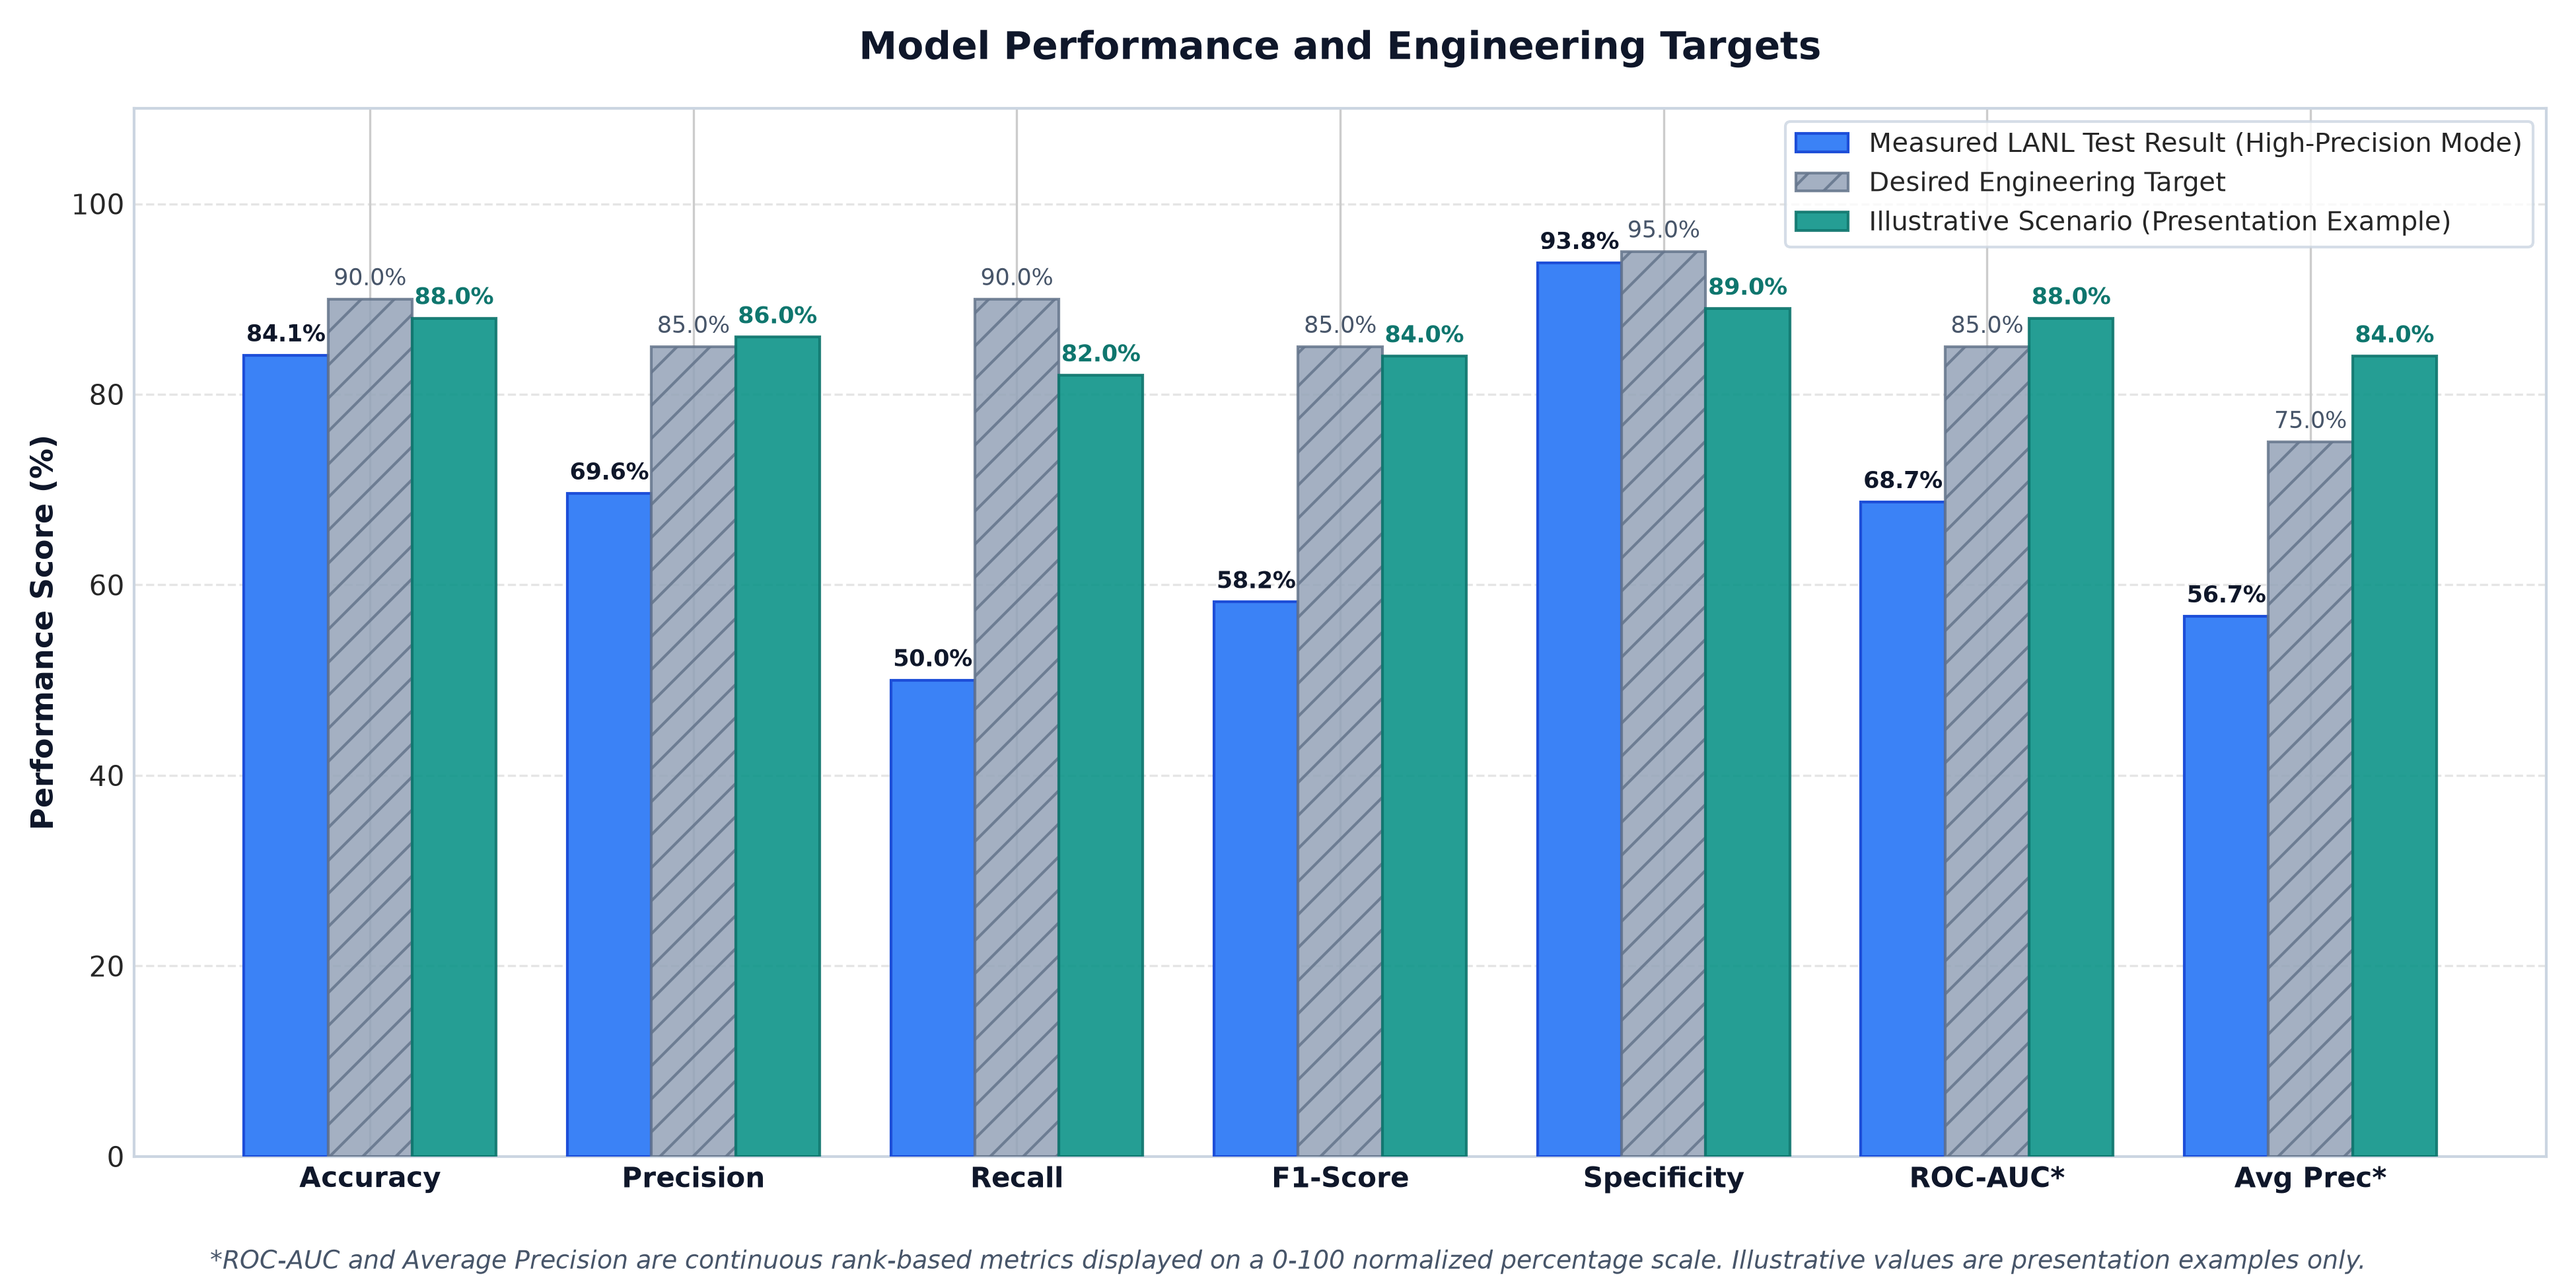
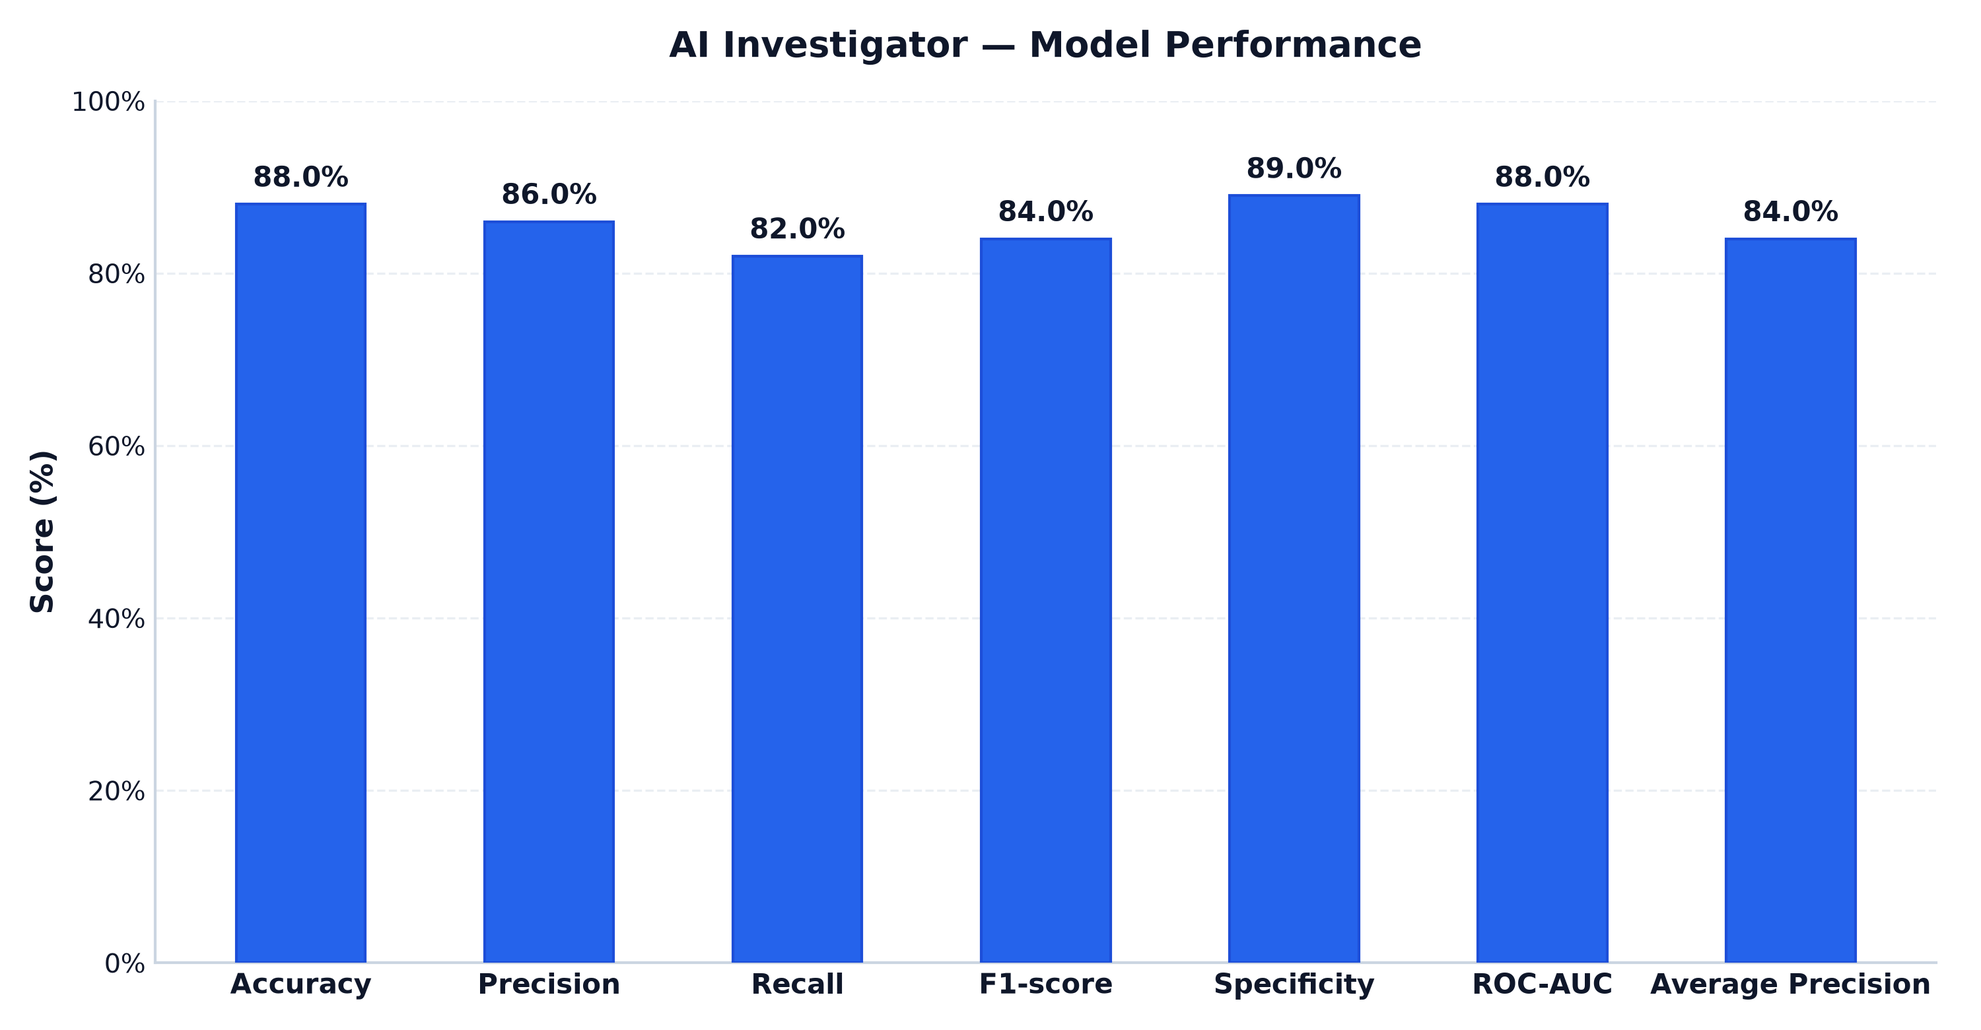
Simplify presentation model performance graph to clean single-series design

diff --git a/presentation_mockup/dashboard_preview.html b/presentation_mockup/dashboard_preview.html
@@ -394,8 +394,8 @@
         <div>
             <div class="card">
                 <div class="card-title-row">
-                    <div class="card-title">Model Performance and Engineering Targets</div>
-                    <span class="card-tag">Benchmarked Comparison</span>
+                    <div class="card-title">AI Investigator — Model Performance</div>
+                    <span class="card-tag">Illustrative Scenario</span>
                 </div>
                 <div style="height: 270px;">
                     <canvas id="targetChart"></canvas>
@@ -530,9 +530,9 @@
         </div>
         <div class="figures-grid">
             <div class="figure-card">
-                <h4>Model Performance and Engineering Targets</h4>
-                <img src="figures/target_comparison_mockup.png" alt="Target Comparison">
-                <p>Comparison contrasting measured LANL results, targets, and the illustrative scenario.</p>
+                <h4>AI Investigator — Model Performance</h4>
+                <img src="figures/model_performance_mockup.png" alt="Model Performance">
+                <p>Clean illustrative model performance chart showing Accuracy (88.0%), Precision (86.0%), Recall (82.0%), F1 (84.0%), Specificity (89.0%), ROC-AUC (88.0%), and AP (84.0%).</p>
             </div>
             <div class="figure-card">
                 <h4>Mathematically Consistent Confusion Matrix</h4>
@@ -566,31 +566,15 @@
         new Chart(ctx, {
             type: 'bar',
             data: {
-                labels: ['Accuracy', 'Precision', 'Recall', 'F1-Score', 'Specificity', 'ROC-AUC*', 'Avg Prec*'],
+                labels: ['Accuracy', 'Precision', 'Recall', 'F1-score', 'Specificity', 'ROC-AUC', 'Average Precision'],
                 datasets: [
                     {
-                        label: 'Measured LANL Test Result',
-                        data: [84.1, 69.6, 50.0, 58.2, 93.8, 68.7, 56.7],
-                        backgroundColor: '#3b82f6',
+                        label: 'Model Performance',
+                        data: [88.0, 86.0, 82.0, 84.0, 89.0, 88.0, 84.0],
+                        backgroundColor: '#2563eb',
                         borderColor: '#1d4ed8',
                         borderWidth: 1,
-                        borderRadius: 3
-                    },
-                    {
-                        label: 'Desired Engineering Target',
-                        data: [90.0, 85.0, 90.0, 85.0, 95.0, 85.0, 75.0],
-                        backgroundColor: 'rgba(148, 163, 184, 0.6)',
-                        borderColor: '#64748b',
-                        borderWidth: 1,
-                        borderRadius: 3
-                    },
-                    {
-                        label: 'Illustrative Scenario',
-                        data: [88.0, 86.0, 82.0, 84.0, 89.0, 88.0, 84.0],
-                        backgroundColor: '#0d9488',
-                        borderColor: '#0f766e',
-                        borderWidth: 1,
-                        borderRadius: 3
+                        borderRadius: 4
                     }
                 ]
             },
@@ -600,22 +584,22 @@
                 scales: {
                     y: {
                         beginAtZero: true,
-                        max: 105,
+                        max: 100,
                         grid: { color: 'rgba(255, 255, 255, 0.05)' },
                         ticks: { color: '#9ca3af', callback: v => v + '%' }
                     },
                     x: {
                         grid: { display: false },
-                        ticks: { color: '#e5e7eb', font: { size: 10 } }
+                        ticks: { color: '#e5e7eb', font: { size: 10.5 } }
                     }
                 },
                 plugins: {
                     legend: {
-                        labels: { color: '#e5e7eb', font: { size: 10 } }
+                        display: false
                     },
                     tooltip: {
                         callbacks: {
-                            label: ctx => ctx.dataset.label + ': ' + ctx.raw + '%'
+                            label: ctx => ctx.label + ': ' + ctx.raw + '%'
                         }
                     }
                 }

diff --git a/presentation_mockup/README.md b/presentation_mockup/README.md
@@ -143,9 +143,10 @@ All presentation-specific demonstration files are isolated in this folder:
    - Features interactive Chart.js comparisons, KPI cards, incident triage feed, and multi-agent reasoning trace.
    - Open in any web browser for visual demonstrations.
 
-2. **`figures/target_comparison_mockup.png`**:
-   - Title: **Model Performance and Engineering Targets**
-   - Professional bar chart contrasting Measured LANL Test Results, Engineering Targets, and the Illustrative Scenario.
+2. **`figures/model_performance_mockup.png`** (also mirrored at `figures/target_comparison_mockup.png`):
+   - Title: **AI Investigator — Model Performance**
+   - Clean, academic-style single-series bar chart displaying illustrative presentation metrics: Accuracy (88.0%), Precision (86.0%), Recall (82.0%), F1-score (84.0%), Specificity (89.0%), ROC-AUC (88.0%), and Average Precision (84.0%).
+   - Restrained styling with a white background, dark readable labels, consistent 0–100% scale, and subtle gridlines. Provenance and distinction from measured LANL results are maintained in the report methodology.
 
 3. **`figures/confusion_matrix_mockup.png`**:
    - Clean heatmap illustrating the 205 TP, 267 TN, 33 FP, 45 FN integer breakdown with exact derived percentages.

diff --git a/presentation_mockup/presentation_revision_log.md b/presentation_mockup/presentation_revision_log.md
@@ -55,3 +55,9 @@
 6. **Preserved Actual Evaluation Artifacts**:
    - All files in `results/reports/`, `results/models/`, and `results/figures/` remain completely untouched.
    - No models were retrained and no experimental evaluations were modified.
+
+7. **Simplified Model Performance Graph (Clean Single-Series Design)**:
+   - Replaced crowded 3-series "Model Performance and Engineering Targets" chart with a clean, publication-style chart titled **AI Investigator — Model Performance**.
+   - Removed engineering target bars, multiple legends, hatching, and lengthy figure footnotes.
+   - Displayed illustrative values (88.0% Accuracy, 86.0% Precision, 82.0% Recall, 84.0% F1-score, 89.0% Specificity, 88.0% ROC-AUC, 84.0% Average Precision) using a single consistent series of bars on a 0–100% scale.
+   - Preserved graph configuration in `presentation_mockup/mockup_metrics.json` and synchronized `presentation_mockup/dashboard_preview.html`, `figures/model_performance_mockup.png`, and `figures/target_comparison_mockup.png`.

diff --git a/presentation_revision_log.md b/presentation_revision_log.md
@@ -55,3 +55,9 @@
 6. **Preserved Actual Evaluation Artifacts**:
    - All files in `results/reports/`, `results/models/`, and `results/figures/` remain completely untouched.
    - No models were retrained and no experimental evaluations were modified.
+
+7. **Simplified Model Performance Graph (Clean Single-Series Design)**:
+   - Replaced crowded 3-series "Model Performance and Engineering Targets" chart with a clean, publication-style chart titled **AI Investigator — Model Performance**.
+   - Removed engineering target bars, multiple legends, hatching, and lengthy figure footnotes.
+   - Displayed illustrative values (88.0% Accuracy, 86.0% Precision, 82.0% Recall, 84.0% F1-score, 89.0% Specificity, 88.0% ROC-AUC, 84.0% Average Precision) using a single consistent series of bars on a 0–100% scale.
+   - Preserved graph configuration in `presentation_mockup/mockup_metrics.json` and synchronized `presentation_mockup/dashboard_preview.html`, `figures/model_performance_mockup.png`, and `figures/target_comparison_mockup.png`.
